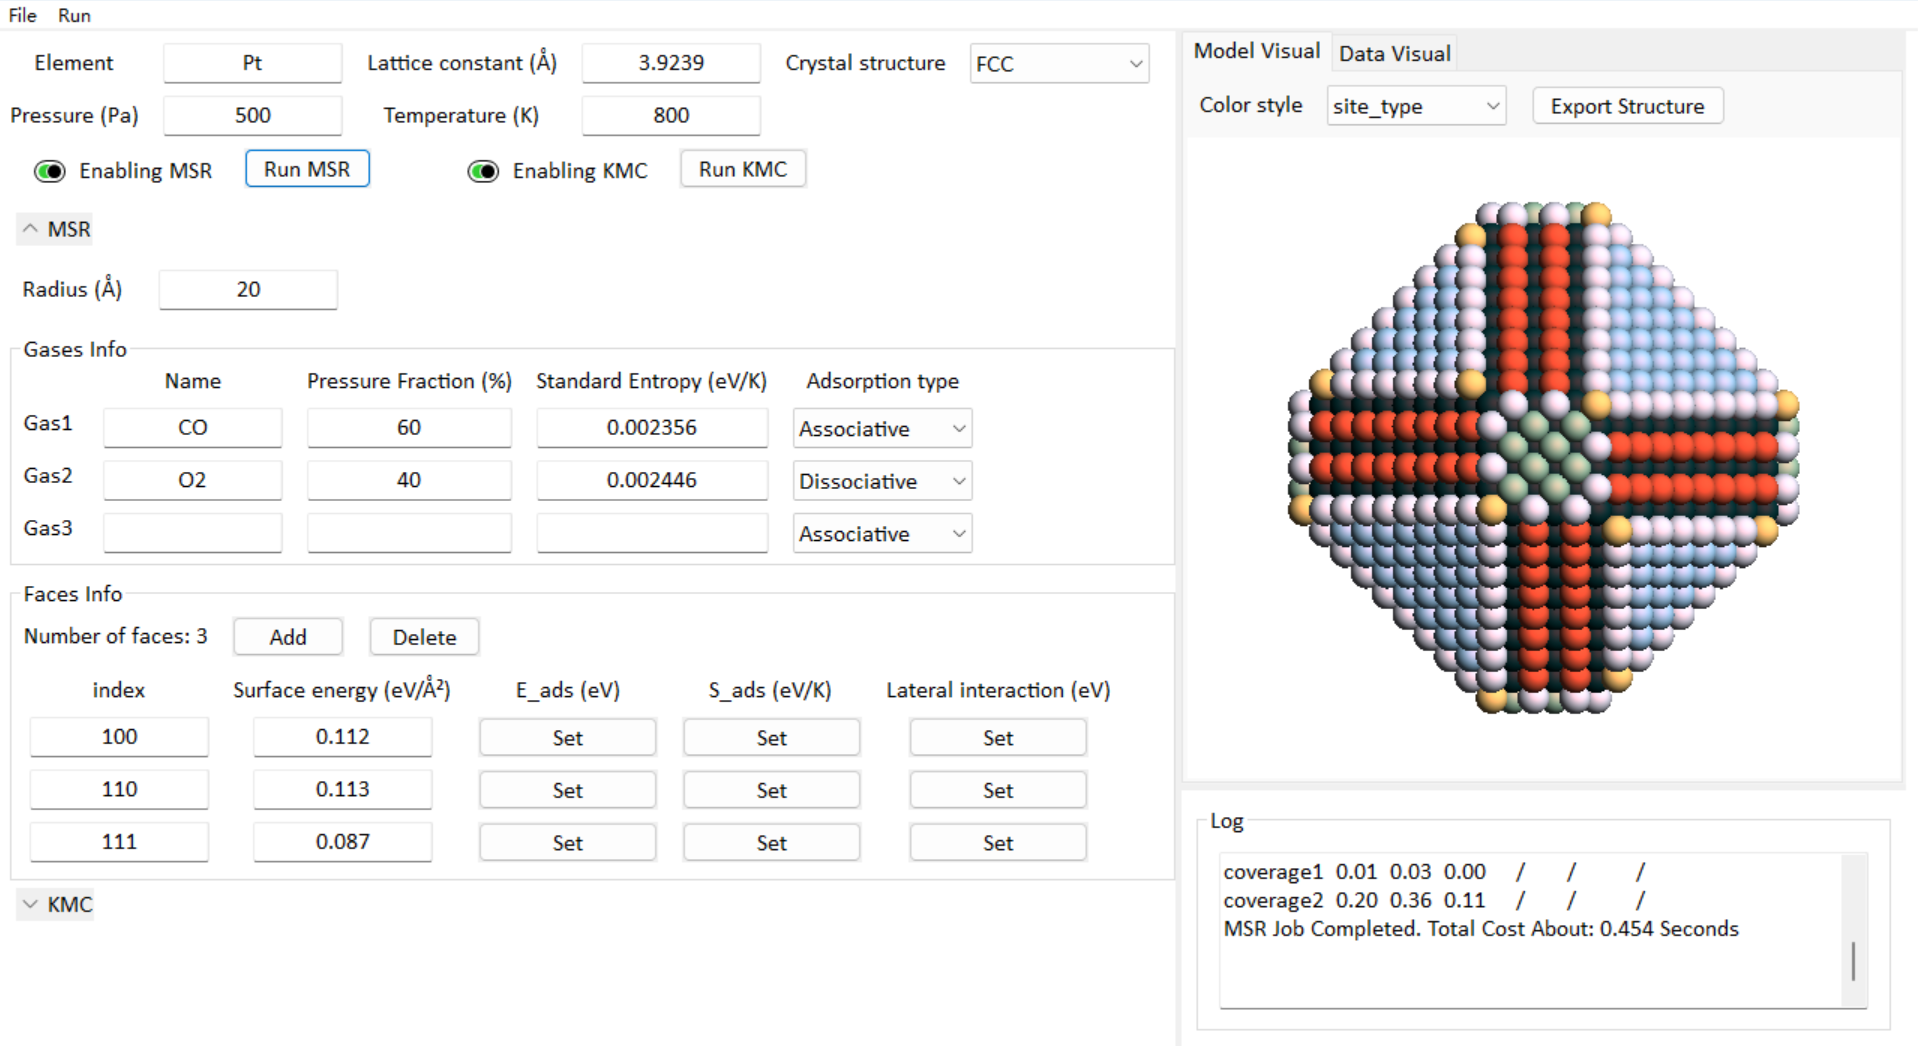
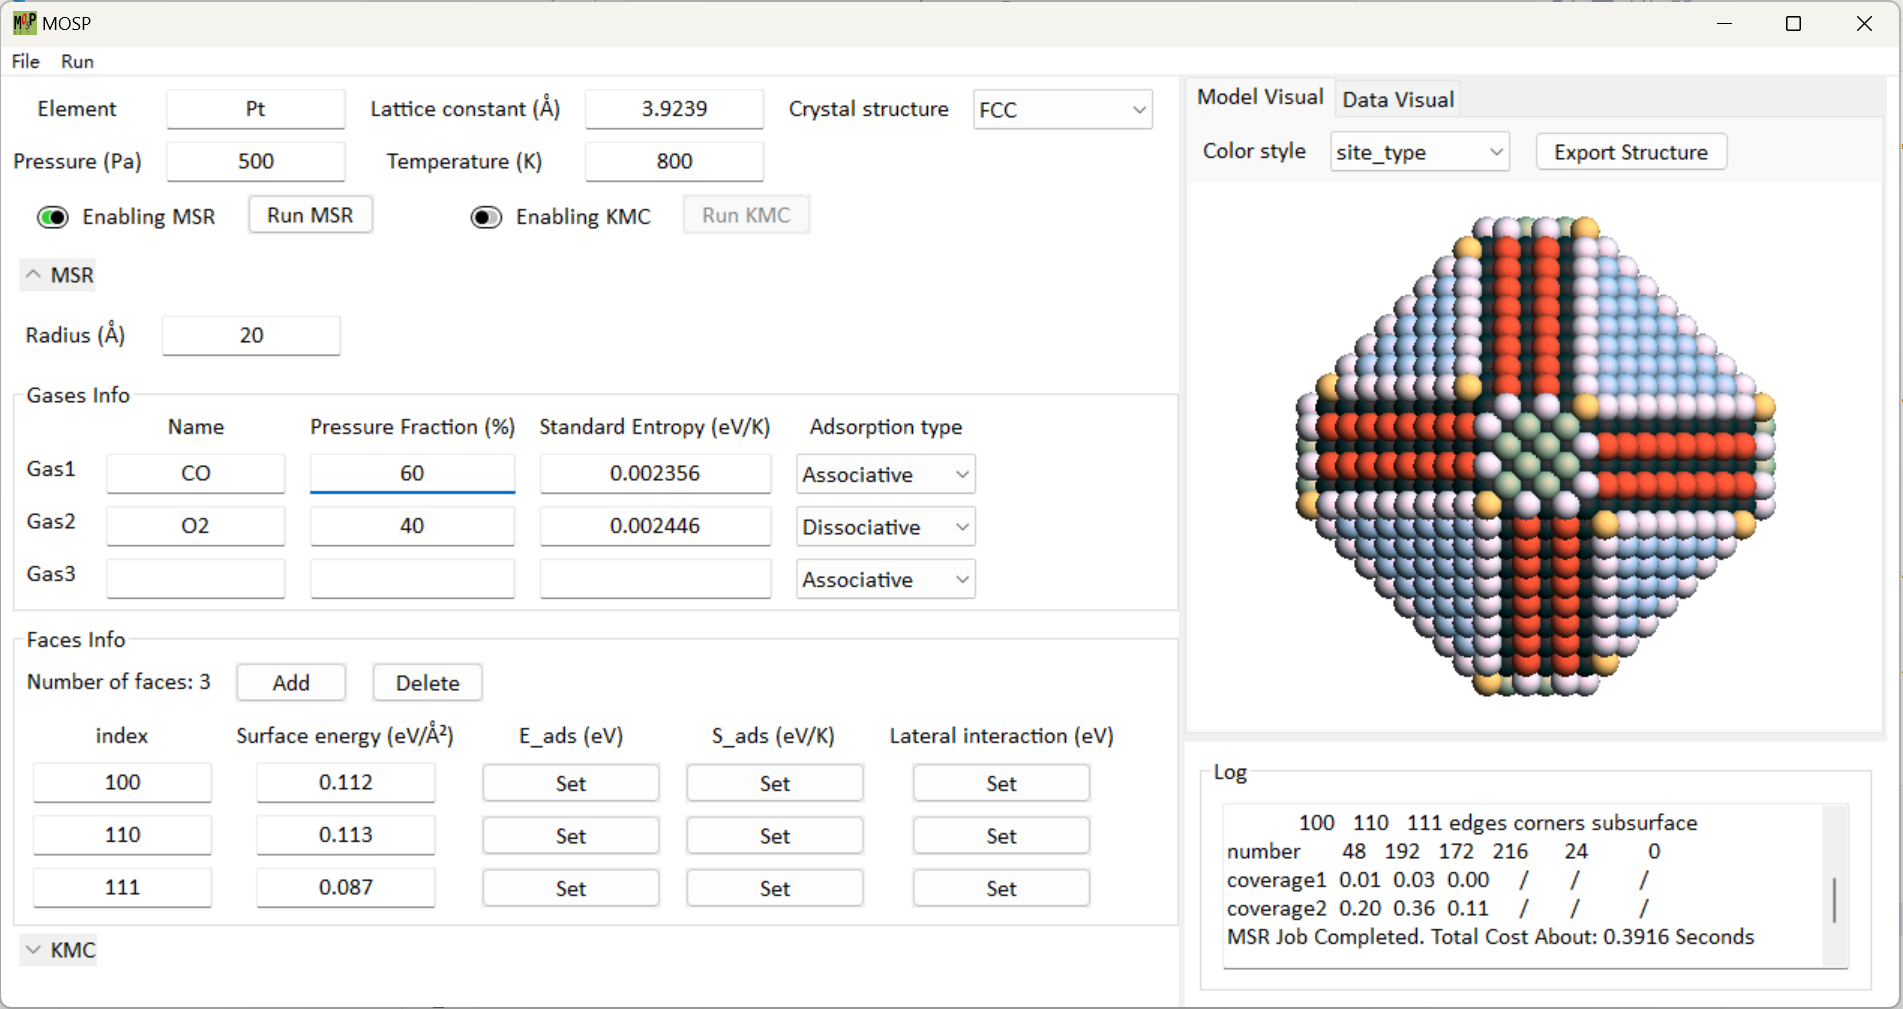
Fix bug in: 1. species delete 2. idmap of two-site species update 3. logic of enabling button 4. Sads in msr

diff --git a/views/input_panel.py b/views/input_panel.py
@@ -82,7 +82,8 @@ class InputPanel(wx.ScrolledWindow):
                        0, wx.ALIGN_CENTER)
             if widget_type == 'Entry':
                 wgt = wx.TextCtrl(self, -1, size=(120, -1), style=wx.TE_CENTRE)
-                wgt.SetValidator(self.posDigitValidator)
+                if label != 'Element':
+                    wgt.SetValidator(self.posDigitValidator)
             elif widget_type == 'Combobox':
                 wgt = wx.ComboBox(self, -1, choices=dlc, value=dlc[0], 
                                   size=(120, -1), style=wx.CB_READONLY|wx.TE_CENTER)
@@ -213,7 +214,7 @@ class InputPanel(wx.ScrolledWindow):
             with open(path, 'r') as f:
                 values = json.load(f)
             for key, widget in self.entries.items():
-                if (values.get(key)):
+                if (values.get(key) != None):
                     widget.SetValue(values[key])
             # self.Layout()
             if values.get('flag_MSR') and values.get('MSR'):
@@ -221,11 +222,17 @@ class InputPanel(wx.ScrolledWindow):
                 self.msrRunBtn.Enable()
                 self.msrPane.onLoad(values['MSR'])
                 self.log.WriteText(f"MSR Loaded")
+            else:
+                self.msrPane.Collapse(True)
+                self.msrRunBtn.Disable()
             if values.get('flag_KMC') and values.get('KMC'):
                 self.kmcPane.Collapse(False)
                 self.kmcRunBtn.Enable()
                 self.kmcPane.OnLoad(values['KMC'])
                 self.log.WriteText(f"KMC Loaded")
+            else:
+                self.kmcPane.Collapse(True)
+                self.kmcRunBtn.Disable()
             self.OnInnerSizeChanged()
             self.log.WriteText(f"Inputs are loaded from {path}")
         dlg.Destroy()
@@ -297,7 +304,12 @@ class InputPanel(wx.ScrolledWindow):
                 sj_elapsed = round(time.time() - sj_start, 4)
                 self.log.WriteText('KMC Job Completed. Total Cost About: ' + str(sj_elapsed) + ' Seconds')
                 self.topWin.VisualPanel.ChangeSelection(1)
-                DfTOF_site = self.topWin.pltPanle.post_kmc(self.kmcPane.products)
+                try:
+                    DfTOF_site = self.topWin.pltPanle.post_kmc(self.kmcPane.products)
+                except:
+                    self.log.WriteText('KMC postprocessing failed: Please check the inputs of kmc')
+                    os.chdir(pwd0)
+                    return
                 if self.particle != None:
                     new_NP = self.particle
                 else:
@@ -455,6 +467,7 @@ class MsrPanel(wx.CollapsiblePane):
             self.parent.OnInnerSizeChanged()
 
     def OnSave(self):
+        self.values = {}
         for key, widget in self.entries.items():
             self.values[key] = widget.GetValue()
         self.values['nFaces'] = self.nFaces
@@ -823,6 +836,7 @@ class KmcPanel(wx.CollapsiblePane):
         # print(self.id2reactantMap)
 
     def OnSave(self):
+        self.values = {}
         for key, widget in self.entries.items():
             self.values[key] = widget.GetValue()
         self.values['nspecies'] = self.nspecies
@@ -839,7 +853,11 @@ class KmcPanel(wx.CollapsiblePane):
             self.values[f"p{i+1}"] = json.dumps(pro, cls=Product.Encoder)
         for i, evt in enumerate(self.events):
             self.values[f"e{i+1}"] = json.dumps(evt, cls=Event.Encoder)
-        self.values["li"] = self.liWin.getValues()
+        li = self.liWin.getValues()
+        if li != None:
+            self.values["li"] = self.liWin.getValues()
+        else:
+            self.log.WriteText("Error when save li in kmc module, please check")
         return self.values
 
     def OnLoad(self, values : dict):
@@ -1115,6 +1133,12 @@ class SpecieRow(wx.Panel):
         if (name == "is_twosite"):
             self.__DisableEvtOnoff(obj.GetValue())
             self.subEntries["E_ads_para"][1].Enable(obj.GetValue())
+            if obj.GetValue():
+                self.master.updateIdMap_twosite(self.id, self.sepcie.getName())
+            else:
+                if self.master.id2reactantMap.get(-self.id):
+                    self.master.id2reactantMap.pop(-self.id)
+                self.master.updateIdMap(self.id, self.sepcie.getName()) ## idMap
         else:
             self._btnDict[name].Enable(obj.GetValue())
             if obj.GetValue():
@@ -1144,7 +1168,7 @@ class SpecieRow(wx.Panel):
             self.__SetEvts(f"spe{self.id}")
         self.subEntries["flag_ads"].SetValue(spe.flag_ads)
         self.subEntries["flag_des"].SetValue(spe.flag_des)
-        self._btnDict["flag_ads"].Enable(not spe.is_twosite and spe.flag_ads and spe.flag_des)
+        self._btnDict["flag_ads"].Enable(not spe.is_twosite and (spe.flag_ads or spe.flag_des))
 
         self.subEntries["flag_diff"].SetValue(spe.flag_diff)
         self._btnDict["flag_diff"].Enable(spe.flag_diff)
@@ -1224,6 +1248,10 @@ class SpecieRow(wx.Panel):
     def delete(self):
         """ for widget in self.subEntries.values():
             widget.Destroy() """
+        for name, row in self._rowDict.items():
+            if row:
+                self.master.evtPane.delFixEvt(row, True)
+                self._rowDict[name] = None
         self.Destroy()
 
 
@@ -1355,16 +1383,19 @@ class LiPane(wx.PopupTransientWindow):
         newLayer = []
         for i in range(n-1):
             text = self.__Text(n, i+1)
+            text.SetValue("0.00")
             self.Sizer.Add(text, pos=(n, i+1), flag=wx.ALIGN_CENTER|wx.ALL, border=4)
             newLayer.append(text)
             text.Bind(wx.EVT_TEXT, self.__OnText)
         for j in range(n-1):
             text = self.__Text(j+1, n)
+            text.SetValue("0.00")
             self.Sizer.Add(text, pos=(j+1, n), flag=wx.ALIGN_CENTER|wx.ALL, border=4)
             text.SetEditable(False)
             text.SetBackgroundColour("#E0E0E0")
             newLayer.append(text)
         text = self.__Text(n, n)
+        text.SetValue("0.00")
         self.Sizer.Add(text, pos=(n, n), flag=wx.ALIGN_CENTER|wx.ALL, border=4)
         newLayer.append(text)
         self.entries.append(newLayer)
@@ -1422,13 +1453,16 @@ class LiPane(wx.PopupTransientWindow):
 
     def getValues(self):
         values = np.zeros((self._nSpes, self._nSpes))
-        for layer in self.entries:
-            for ety in layer:
-                labels = ety.Name.split(',')
-                i = int(labels[0]) - 1
-                j = int(labels[1]) - 1
-                values[i][j] = ety.GetValue()
-        return values.tolist()
+        try:
+            for layer in self.entries:
+                for ety in layer:
+                    labels = ety.Name.split(',')
+                    i = int(labels[0]) - 1
+                    j = int(labels[1]) - 1
+                    values[i][j] = ety.GetValue()
+            return values.tolist()
+        except ValueError:
+            return None
 
 
 class ProductPane(wx.Panel):

diff --git a/utils/msr.py b/utils/msr.py
@@ -350,11 +350,11 @@ class Wulff:
                 for k in range(self.nGas):
                     if (self.ads_type[k] == "Associative"):
                         f[k] = TTT[k] * np.exp(
-                            (self.E_ads[m, k] - cal_w[k] + self.T * self.S_gas[k]) /
+                            (self.E_ads[m, k] - cal_w[k] - self.T * (self.S_ads[m, k] - self.S_gas[k])) /
                             (k_b * self.T)) / self.rPP[k] - TTT[-1]
                     elif (self.ads_type[k] == "Dissociative"):
                         f[k] = TTT[k] * (np.exp(
-                            (2 * self.E_ads[m, k] - 2 * cal_w[k] + self.T * self.S_gas[k])
+                            (2 * self.E_ads[m, k] - 2 * cal_w[k] - self.T * (self.S_ads[m, k] - self.S_gas[k]))
                             / (k_b * self.T)) / self.rPP[k])**0.5 - TTT[-1]
                 f[-1] = np.sum(TTT) - 1
                 return f
@@ -495,13 +495,12 @@ class Wulff:
                 fp_xyz.write('%d\n' % (N_atom))
                 fp_xyz.write('cluster_%d_%d.xyz\n' % (self.T, self.P))
                 kmc_ini.write('%d\n\n' % (N_atom))
-                elements = [self.ele] * N_atom
                 for i in range(N_atom):
                     fp_xyz.write('%s  %.3f  %.3f  %.3f  %s\n' %
                                  (color_ele[i], coor_valid[i][0], coor_valid[i][1],
                                   coor_valid[i][2], surf_type[i]))
                     kmc_ini.write('%s  %.3f  %.3f  %.3f\n' %
-                                  (elements[i], coor_valid[i][0], coor_valid[i][1],
+                                  (self.eles[i], coor_valid[i][0], coor_valid[i][1],
                                    coor_valid[i][2]))
         record_df = pd.DataFrame(columns=self.face_index)
         record_df.loc['number'] = n_surfs

diff --git a/views/visual_panel.py b/views/visual_panel.py
@@ -500,7 +500,7 @@ class pltPanel(wx.ScrolledWindow):
             self.axes.xaxis.set_major_formatter(FORMATTER)
         elif name == "TOFs":
             self.DfTOF.iloc[:, 1:].plot(
-                ax=self.axes, color='k', marker='o', mfc='r',
+                ax=self.axes, marker='o', mfc='#FFF5E3',
                 xlabel='Steps', ylabel='TOF (1/s/site)')
             self.axes.grid(linestyle='--')
             self.axes.yaxis.set_major_formatter(FORMATTER)

diff --git a/utils/kmc_oi.py b/utils/kmc_oi.py
@@ -27,7 +27,7 @@ def writeKmcInp(values):
 
         li = np.array(kmc_values["li"])
         li = li.astype(np.float32)
-        np.savetxt("data/INPUT/li.txt", li, fmt="%.3f", delimiter="\t")
+        np.savetxt("data/INPUT/LI.txt", li, fmt="%.3f", delimiter="\t")
 
         with open('data/INPUT/species.txt', 'w') as s_ini:
             for n in range(kmc_values['nspecies']): 
